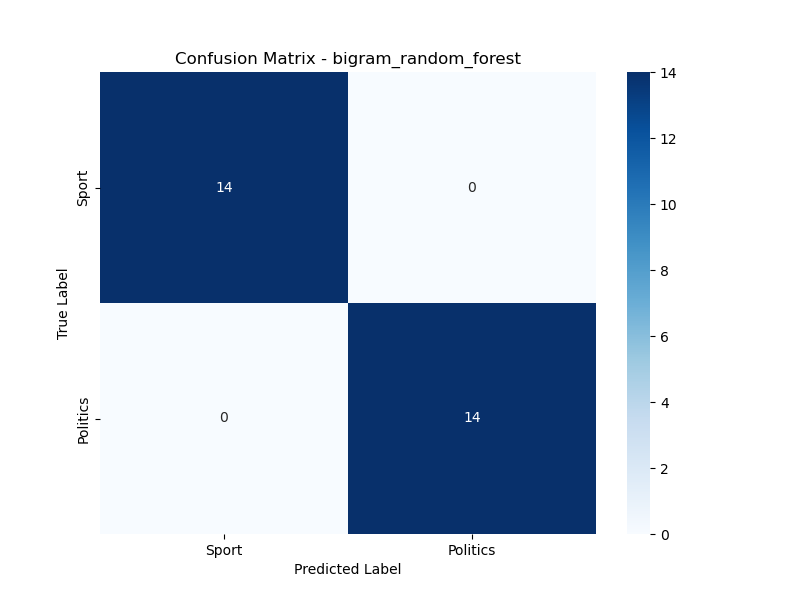
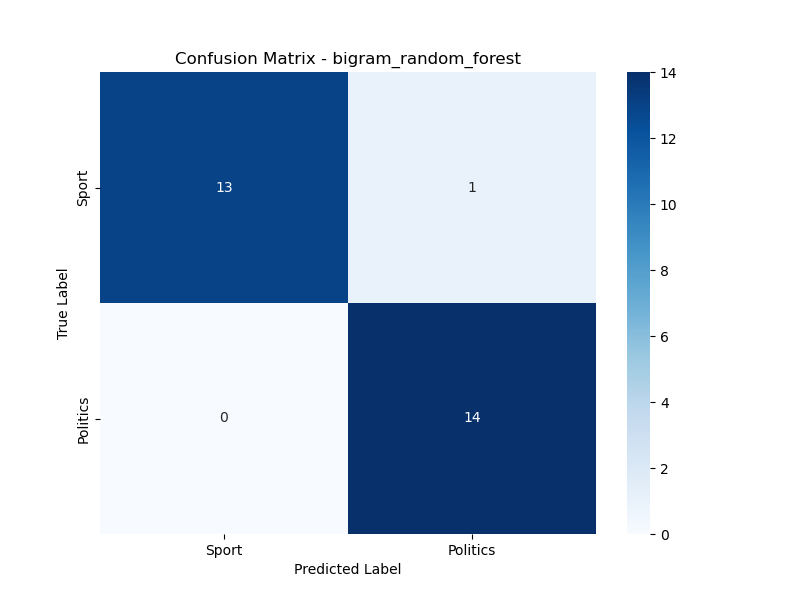
minor fixes

Changed region(s): [[0.125, 0.12, 0.4375, 0.51], [0.5625, 0.3, 0.5938, 0.33]]

diff --git a/detailed_analysis.py b/detailed_analysis.py
@@ -10,7 +10,7 @@ def load_training_data():
     docs = []
     labels = []
     
-    # load sport documents
+    # load sport lines
     sport_path = 'data/sport/sport_train.txt'
     with open(sport_path, 'r', encoding='utf-8') as file:
         lines = file.readlines()
@@ -20,7 +20,7 @@ def load_training_data():
                 docs.append(text)
                 labels.append(0)
     
-    # load politics documents
+    # load politics lines
     politics_path = 'data/politics/politics_train.txt'
     with open(politics_path, 'r', encoding='utf-8') as file:
         lines = file.readlines()
@@ -50,7 +50,7 @@ def analyze_vocabulary():
     # get feature names (words)
     words = extractor.get_feature_names()
     
-    # separate sport and politics documents
+    # separate sport and politics lines
     labels_arr = np.array(labels)
     sport_idx = labels_arr == 0
     politics_idx = labels_arr == 1
@@ -155,7 +155,7 @@ def dataset_statistics():
     print("DATASET STATISTICS")
     print("="*60)
     
-    # load documents
+    # load lines
     docs, labels = load_training_data()
     
     # count words in each document
@@ -166,9 +166,9 @@ def dataset_statistics():
     
     lengths_array = np.array(lengths)
     
-    print(f"\nTotal training documents: {len(docs)}")
-    print(f"Sport documents: {labels.count(0)}")
-    print(f"Politics documents: {labels.count(1)}")
+    print(f"\nTotal training lines: {len(docs)}")
+    print(f"Sport lines: {labels.count(0)}")
+    print(f"Politics lines: {labels.count(1)}")
     
     print(f"\nDocument length statistics:")
     print(f"  Average words per document: {lengths_array.mean():.2f}")
@@ -197,8 +197,8 @@ def dataset_statistics():
         else:
             politics_lens.append(lengths[i])
     
-    print(f"\nAverage words in Sport documents: {np.mean(sport_lens):.2f}")
-    print(f"Average words in Politics documents: {np.mean(politics_lens):.2f}")
+    print(f"\nAverage words in Sport lines: {np.mean(sport_lens):.2f}")
+    print(f"Average words in Politics lines: {np.mean(politics_lens):.2f}")
 
 def main():
     # run all analyses

diff --git a/feature_extraction.py b/feature_extraction.py
@@ -3,6 +3,8 @@
 from sklearn.feature_extraction.text import CountVectorizer, TfidfVectorizer
 from sklearn.feature_extraction.text import HashingVectorizer
 import numpy as np
+import re
+import string
 
 class FeatureExtractor:
     
@@ -10,10 +12,38 @@ class FeatureExtractor:
         # can use bow, tfidf, bigram, trigram
         self.method = method
         self.vectorizer = None
+    
+    def preprocess_text(self, text):
+        """
+        Basic text preprocessing:
+        - Convert to lowercase
+        - Remove punctuation
+        - Remove extra whitespace
+        """
+        # convert to lowercase
+        text = text.lower()
+        
+        # remove punctuation
+        text = text.translate(str.maketrans('', '', string.punctuation))
+        
+        # remove extra whitespace
+        text = re.sub(r'\s+', ' ', text).strip()
+        
+        return text
+    
+    def preprocess_documents(self, texts):
+        """
+        Apply preprocessing to all documents
+        """
+        return [self.preprocess_text(doc) for doc in texts]
         
     def fit_transform(self, texts):
         # convert text documents into feature vectors
         # this is where we turn words into numbers
+        
+        # preprocess all texts first
+        print("Preprocessing texts (removing punctuation, converting to lowercase)...")
+        texts = self.preprocess_documents(texts)
         
         method_type = self.method
         
@@ -63,6 +93,8 @@ class FeatureExtractor:
             print("Error: Need to fit vectorizer first!")
             return None
         
+        # preprocess texts before transforming
+        texts = self.preprocess_documents(texts)
         X = self.vectorizer.transform(texts)
         return X
     

diff --git a/README.md b/README.md
@@ -1,6 +1,6 @@
 # Sport vs Politics Text Classification
 
-Binary text classifier using machine learning to distinguish between sports and politics documents.
+Binary text classifier using machine learning to distinguish between sports and politics Documents.
 
 ## Features
 
@@ -10,9 +10,9 @@ Binary text classifier using machine learning to distinguish between sports and 
 
 ## Dataset
 
-- **Total:** 139 documents (111 train, 28 test)
-- **Sport:** 69 documents (55 train, 14 test)
-- **Politics:** 70 documents (56 train, 14 test)
+- **Total:** 139 lines (111 train, 28 test)
+- **Sport:** 69 lines (55 train, 14 test)
+- **Politics:** 70 lines (56 train, 14 test)
 - **Split:** 80/20 random split
 
 ```
@@ -85,7 +85,7 @@ python detailed_analysis.py
 
 ## Limitations
 
-- Small dataset (139 documents)
+- Small dataset (139 lines)
 - Binary classification only
 - Fixed vocabulary (no handling of unknown words)
 - Bag-of-words approach (loses context)
